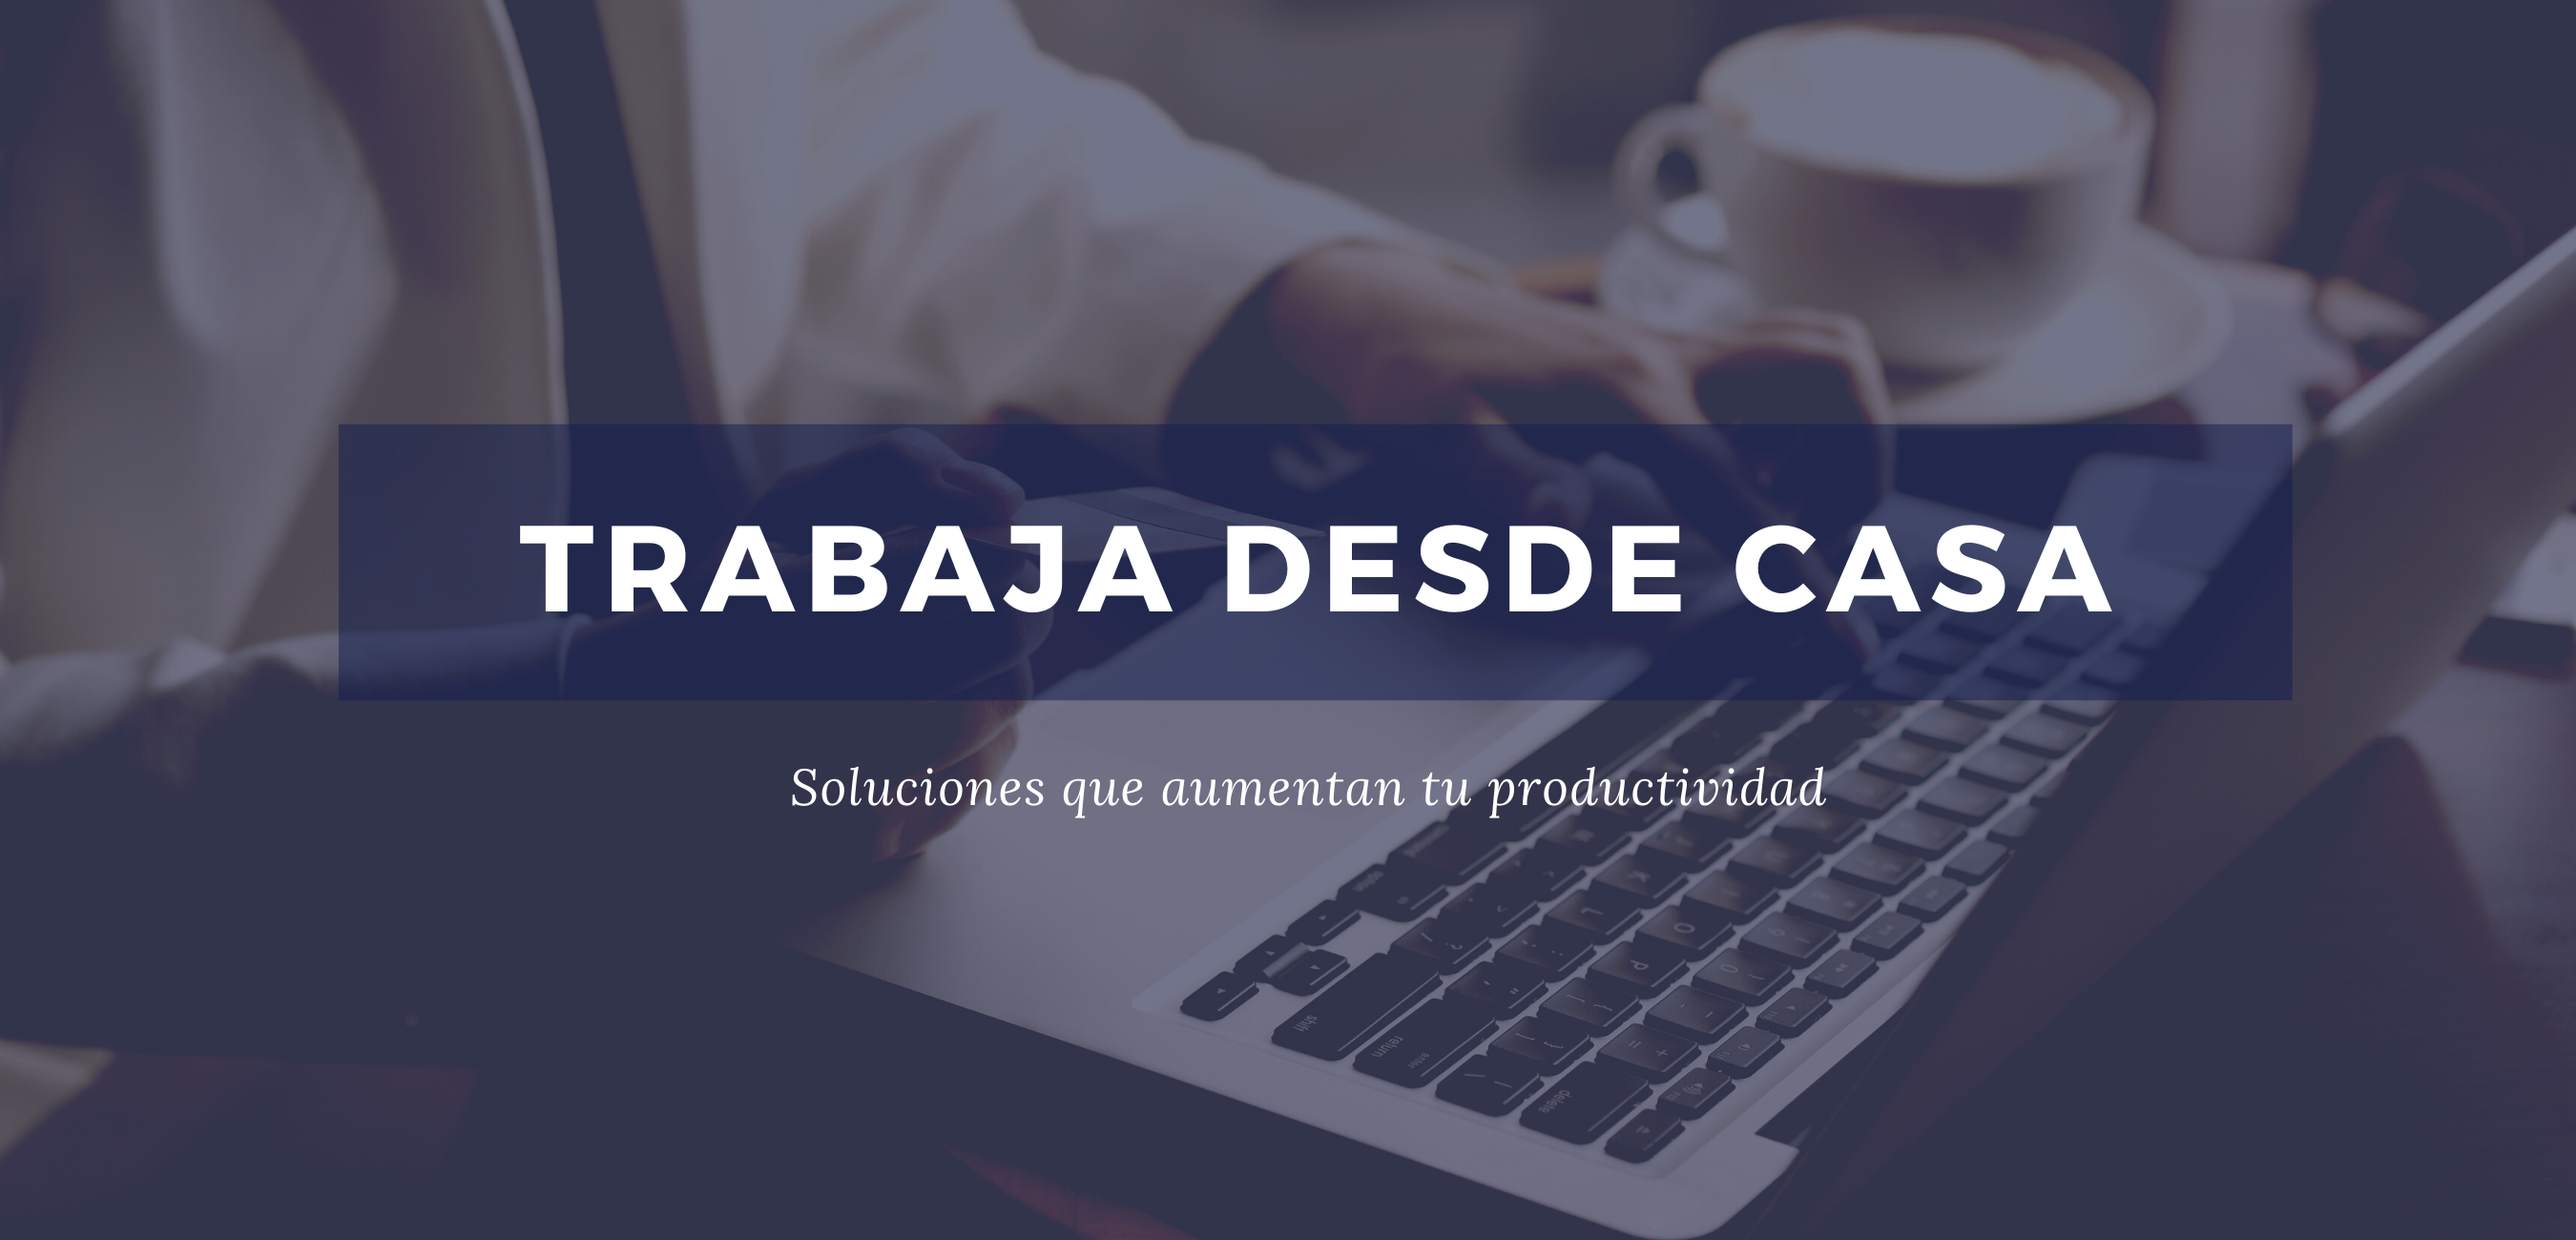
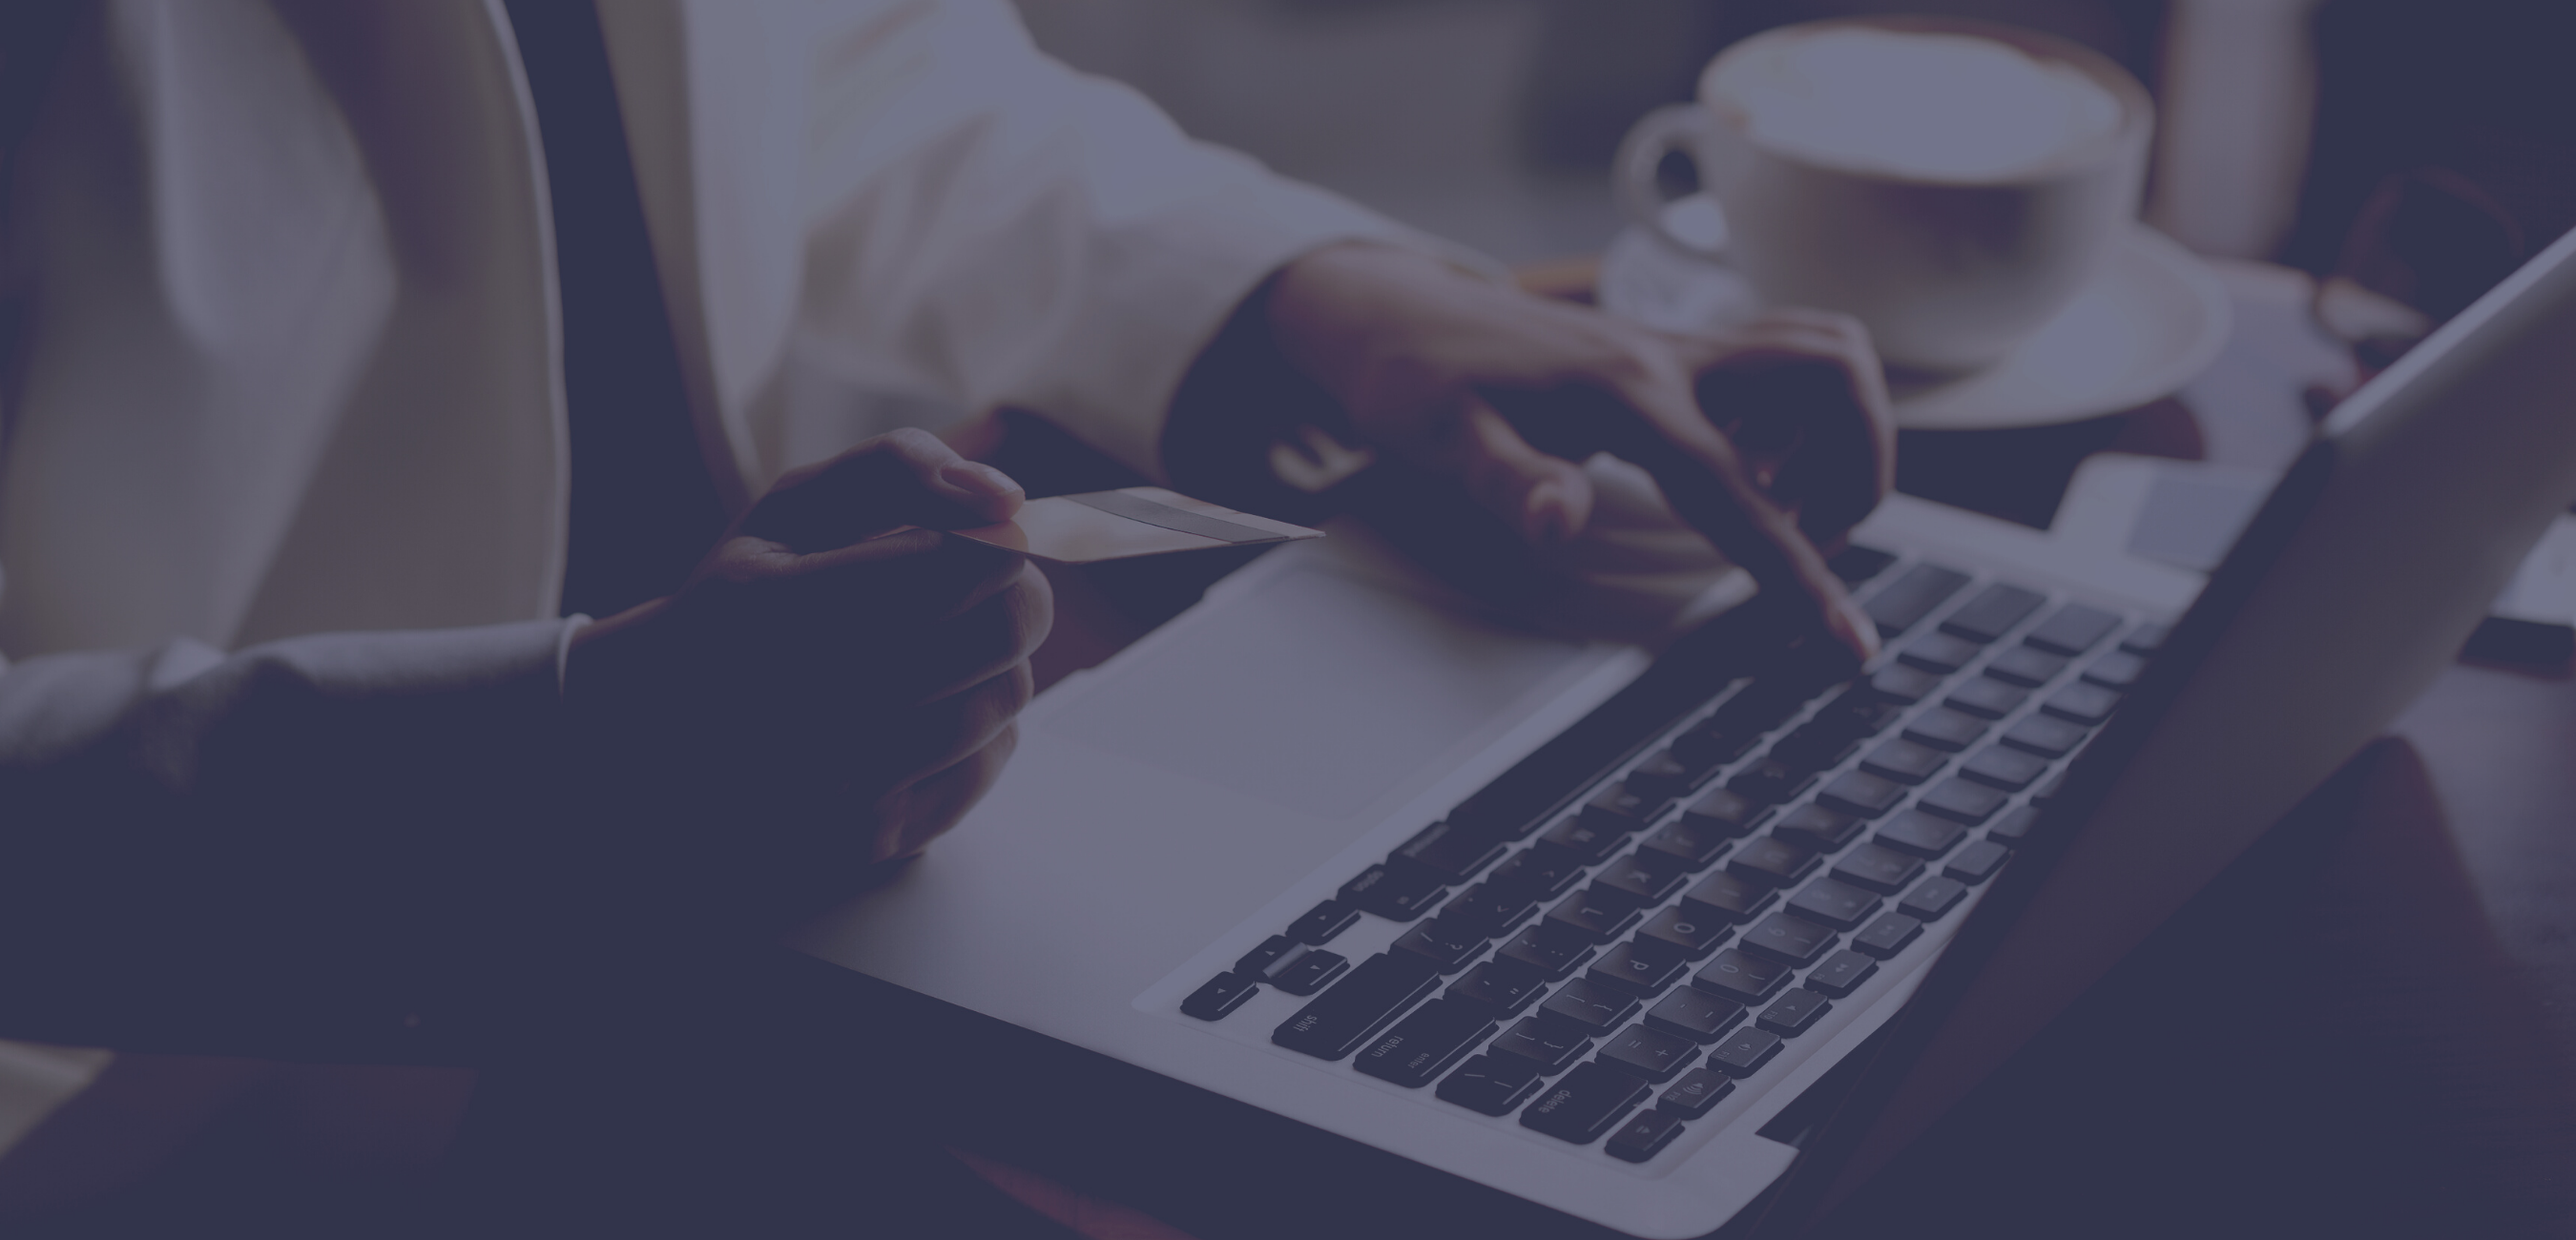
add parallax wfh image

Changed region(s): [[0.1244, 0.3385, 0.9022, 0.5846], [0.3111, 0.6154, 0.7156, 0.6462]]

diff --git a/src/app/home/home.component.less b/src/app/home/home.component.less
@@ -2,6 +2,17 @@
     color: #000;
 }
 
+section {
+    display: block;
+    position: relative
+}
+
+.section-image {
+    padding: 150px 0 120px;
+     position: relative; 
+    width: 100%;
+}
+
 .banner-img {
     display: block;
     width: 100%;
@@ -9,11 +20,109 @@
     object-fit: cover;
 }
 
+.parallax-container {
+    overflow: hidden;
+    width: 100%;
+    height: 100%;
+}
+
+.parallax, .parallax-container {
+    top: 0;
+    left: 0;
+    height: 100%;
+    width: 100%;
+
+    position: absolute;
+}
+
+.parallax img {
+    display: none;
+    position: absolute;
+    left: 50%;
+    bottom: 0;
+    min-width: 100%;
+    min-height: 100%;
+    transform: translate3d(0,0,0);
+    transform: translateX(-50%);
+    object-fit: cover;
+}
+
+.section-text {
+    position: relative;
+    z-index: 2;
+}
+
+.section-cover {
+    position: absolute;
+    left: 0;
+    top: 0;
+    width: 100%;
+    height: 100%;
+    z-index: 1;
+}
+
+.align_center {
+     text-align: center;
+}
+
+.container {
+    max-width: 1060px;
+    margin: 0 auto;
+    padding: 0 20px;
+}
+
+#div1, #div2 {
+    position: relative;
+    width: 100%;
+    
+    background-color: #fff;
+    z-index: 2;
+}
+
+#div1 {
+    top: 0;
+    height: 150px;
+}
+
+#txt-wfh-box, #txt-wfh-1, #txt-wfh-2 {
+    position: absolute;
+    margin-left: auto;
+    margin-right: auto;
+    left: 0;
+    right: 0;
+    text-align: center;
+}
+
+#txt-wfh-box, #txt-wfh-1{
+    top:-70px !important;
+}
+
+#txt-wfh-box {
+    padding: 24px;
+    opacity: 0.5;
+    background-color: #131e4f;
+    width: 480px;
+    height: 84px;
+}
+#txt-wfh-1 {
+    font-size: 40px;
+    color: #fff;
+    padding: 12px;
+}
+
+#txt-wfh-2 {
+    font-size: 16px;
+    color: #fff;
+    padding: 12px;  
+    top: 25px !important;
+    font-family: "Lucida Console", Monaco, monospace;
+}
+
 .carousel-txt{
     position: absolute;
     left: 37%;
     right: 50%;
-    top: 50%;
+    top: 45% !important;
     z-index: 2;
     font-size: 36px;
     width: 50%;
@@ -26,6 +135,16 @@
     }
     .carousel-img {
         height: 480px;
+    }
+    #txt-wfh-1 {
+        font-size: 30px;
+    }
+    #txt-wfh-box {
+        width: 420px;
+        height: 64px;
+    }
+    #txt-wfh-2{
+        font-size: 14px;
     }
   }
 

diff --git a/src/app/home/home.component.html b/src/app/home/home.component.html
@@ -1,4 +1,4 @@
-<div class="container-fluid">
+<section class="section">
     <carousel (activeSlideChange)="onActiveSlideChange($event)">
         <slide *ngFor="let slide of slides; let index=index">
             <div [@openClose]="slide.open ? 'open' : 'closed'" class="carousel-txt">
@@ -8,7 +8,8 @@
         </slide>
     </carousel>
 
-
+</section>
+<section class="section">
     <div class="container">
         <hr>
         <div class="row">
@@ -38,11 +39,17 @@
             </div>
         </div>
     </div>
-    <div class="row">
-        <div class="col-md-12">
-            <img src="assets/images/bannertrabajadesdecasa.png" class="banner-img">
+</section>
+<section class="section">
+    <div class="parallax-container">
+        <div class="parallax" appParallax [ratio]="-0.3"><img src="assets/images/bannertrabajadesdecasa.png" title="Soluciones para crecer" style="display: block; transform: translate3d(-50%, 72px, 0px);"></div>
+    </div>
+    <div class="section-image">
+        <div class="section-cover"></div>
+        <div class="section-text apear-js align_left container">
+            <div id="txt-wfh-box"></div>
+            <span id="txt-wfh-1">TRABAJA DESDE CASA</span>
+            <span id="txt-wfh-2">Soluciones que aumentan tu productividad</span>
         </div>
     </div>
-
-
-</div>
+</section>

diff --git a/src/app/app.module.ts b/src/app/app.module.ts
@@ -12,6 +12,7 @@ import { SocialMediaComponent } from './social-media/social-media.component';
 import { FooterContactComponent } from './footer-contact/footer-contact.component';
 import { CarouselModule } from 'ngx-bootstrap/carousel';
 import { CollapseModule } from 'ngx-bootstrap/collapse';
+import { ParallaxDirective } from './parallax.directive';
 
 
 @NgModule({
@@ -22,7 +23,8 @@ import { CollapseModule } from 'ngx-bootstrap/collapse';
     FooterComponent,
     FooterAddressComponent,
     SocialMediaComponent,
-    FooterContactComponent
+    FooterContactComponent,
+    ParallaxDirective
   ],
   imports: [
     BrowserModule,

diff --git a/src/app/parallax.directive.ts b/src/app/parallax.directive.ts
@@ -1,0 +1,21 @@
+
+import { Directive, Input, ElementRef, HostListener } from '@angular/core';
+
+@Directive({
+  selector: '[appParallax]'
+})
+export class ParallaxDirective {
+
+  @Input('ratio') parallaxRatio : number = 1
+  @Input('offset') offset : number = 0
+
+  constructor(private eleRef : ElementRef) {
+    this.offset =  this.offset | this.eleRef.nativeElement.getBoundingClientRect().top
+  }
+
+  @HostListener("window:scroll", ["$event"])
+  onWindowScroll(event){
+    this.eleRef.nativeElement.style.top = (this.offset - (window.scrollY * this.parallaxRatio)) + 'px'
+  }
+
+}

diff --git a/src/app/parallax.directive.spec.ts b/src/app/parallax.directive.spec.ts
@@ -1,0 +1,8 @@
+import { ParallaxDirective } from './parallax.directive';
+
+describe('ParallaxDirective', () => {
+  it('should create an instance', () => {
+    const directive = new ParallaxDirective();
+    expect(directive).toBeTruthy();
+  });
+});
